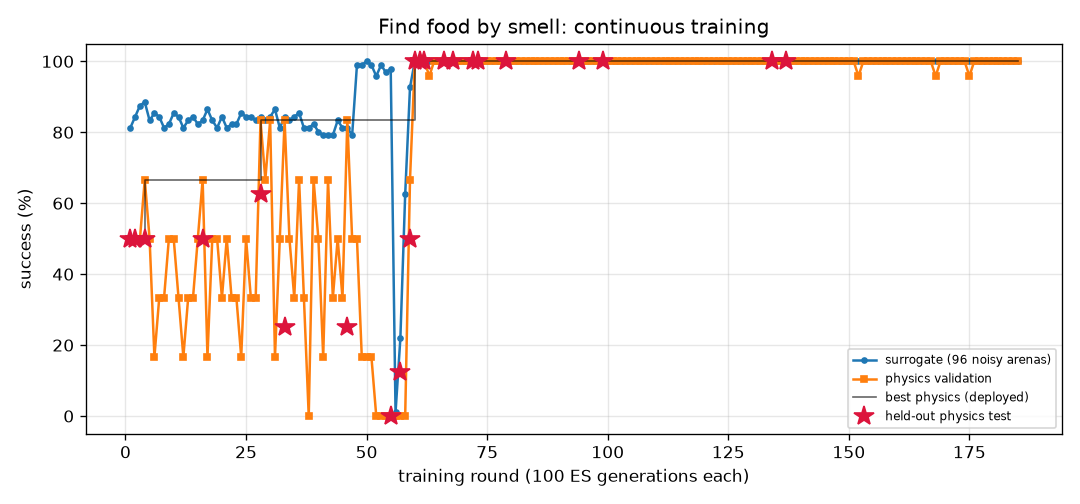
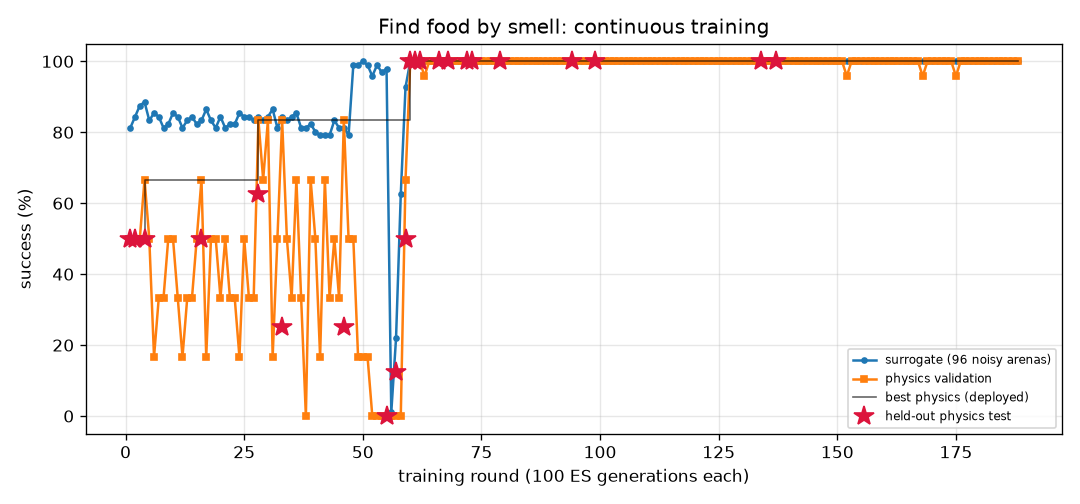
FlyLab: continuous training progress
- walk_forward: optimal, physics val 100% of 24, round 270
- turn: optimal, physics val 100% of 24, round 816
- goto: optimal, physics val 100% of 24, round 223
- odor_seek: optimal, physics val 100% of 24, round 188
- odor_avoid: optimal, physics val 100% of 24, round 746
- light_seek: optimal, physics val 100% of 24, round 417
- light_avoid: optimal, physics val 100% of 24, round 482

diff --git a/projects/09_flylab/training/goto/REPORT.md b/projects/09_flylab/training/goto/REPORT.md
@@ -1,14 +1,14 @@
 # Go to a location (`goto`) — training report
 
-*Auto-generated by `train_brains.py`, last updated 2026-11-02T23:10:33.*
+*Auto-generated by `train_brains.py`, last updated 2026-11-03T03:17:35.*
 
 ![curve](curve.png)
 
 | | |
 |---|---|
-| rounds | 218 |
-| ES generations | 21800 |
-| physics runs | 5182 |
+| rounds | 223 |
+| ES generations | 22300 |
+| physics runs | 5302 |
 | status | **optimal** |
 | best brain | round 176: physics validation **100%** on 24 arenas, surrogate 100% |
 | held-out physics test | **100%** on 32 unseen arenas (95% CI 89%-100%) (errors: [0.2, 0.32, 0.19, 0.24, 0.18, 0.2, 0.19, 0.17, 0.22, 0.23, 0.23, 0.26, 0.2, 0.19, 0.24, 0.23, 0.22, 0.24, 0.2, 0.22, 0.2, 0.2, 0.26, 0.19, 0.22, 0.18, 0.26, 0.22, 0.2, 0.26, 0.23, 0.23]) |
@@ -17,11 +17,6 @@ Physics error per arena: mm from target at the end (< 1.5 and standing still = s
 
 | round | level | gens | sigma | surrogate | physics val | val errors | test | note |
 |---:|---:|---:|---:|---:|---:|---|---:|---|
-| 179 | 3 | 17900 | 0.025 | 99% | 100% | [0.38, 0.42, 0.42, 0.34, 0.33, 0.34, 0.4, 0.41, 0.41, 0.32, 0.28, 0.32, 0.42, 0.35, 0.41, 0.41, 0.4, 0.34, 0.32, 0.4, 0.41, 0.33, 0.4, 0.36] |  |  |
-| 180 | 3 | 18000 | 0.025 | 98% | 100% | [0.39, 0.44, 0.44, 0.3, 0.33, 0.32, 0.38, 0.36, 0.33, 0.28, 0.3, 0.28, 0.36, 0.32, 0.4, 0.36, 0.38, 0.31, 0.3, 0.31, 0.36, 0.26, 0.38, 0.3] |  | restart from best |
-| 181 | 3 | 18100 | 0.024 | 99% | 100% | [0.53, 0.54, 0.43, 0.48, 0.4, 0.48, 0.51, 0.4, 0.55, 0.43, 0.41, 0.46, 0.54, 0.45, 0.48, 0.48, 0.55, 0.47, 0.4, 0.52, 0.47, 0.43, 0.52, 0.5] |  |  |
-| 182 | 3 | 18200 | 0.025 | 100% | 100% | [0.49, 0.46, 0.37, 0.39, 0.36, 0.35, 0.51, 0.37, 0.41, 0.38, 0.35, 0.4, 0.44, 0.34, 0.44, 0.43, 0.51, 0.4, 0.36, 0.42, 0.4, 0.4, 0.46, 0.38] |  |  |
-| 183 | 3 | 18300 | 0.024 | 100% | 100% | [0.39, 0.36, 0.36, 0.3, 0.24, 0.28, 0.37, 0.36, 0.33, 0.26, 0.24, 0.3, 0.35, 0.27, 0.3, 0.34, 0.36, 0.3, 0.25, 0.33, 0.31, 0.25, 0.38, 0.28] |  |  |
 | 184 | 3 | 18400 | 0.024 | 100% | 100% | [0.48, 0.49, 0.51, 0.47, 0.45, 0.44, 0.51, 0.46, 0.5, 0.48, 0.44, 0.47, 0.54, 0.43, 0.47, 0.54, 0.54, 0.47, 0.48, 0.5, 0.49, 0.5, 0.52, 0.47] |  | restart from best |
 | 185 | 3 | 18500 | 0.024 | 99% | 100% | [0.58, 0.52, 0.38, 0.47, 0.38, 0.41, 0.55, 0.53, 0.49, 0.41, 0.39, 0.45, 0.52, 0.38, 0.46, 0.48, 0.59, 0.47, 0.4, 0.53, 0.44, 0.44, 0.57, 0.44] |  |  |
 | 186 | 3 | 18600 | 0.025 | 100% | 100% | [0.56, 0.59, 0.45, 0.46, 0.46, 0.48, 0.53, 0.5, 0.49, 0.44, 0.44, 0.44, 0.54, 0.47, 0.52, 0.5, 0.57, 0.47, 0.43, 0.51, 0.49, 0.43, 0.53, 0.49] |  |  |
@@ -57,3 +52,8 @@ Physics error per arena: mm from target at the end (< 1.5 and standing still = s
 | 216 | 3 | 21600 | 0.025 | 100% | 100% | [0.5, 0.51, 0.49, 0.39, 0.38, 0.4, 0.52, 0.45, 0.45, 0.37, 0.36, 0.38, 0.47, 0.38, 0.42, 0.45, 0.5, 0.4, 0.35, 0.44, 0.44, 0.36, 0.49, 0.38] |  | restart from best |
 | 217 | 3 | 21700 | 0.024 | 99% | 100% | [0.52, 0.53, 0.55, 0.55, 0.41, 0.49, 0.55, 0.53, 0.54, 0.44, 0.44, 0.52, 0.53, 0.42, 0.42, 0.47, 0.56, 0.49, 0.42, 0.53, 0.43, 0.42, 0.55, 0.51] |  |  |
 | 218 | 3 | 21800 | 0.025 | 99% | 96% | [0.44, 0.38, 0.36, 0.27, 0.24, 0.29, 0.39, 0.3, 0.34, 0.24, 0.25, 0.27, 0.35, 0.6, 0.3, 0.26, 0.35, 0.35, 0.26, 0.34, 0.27, 0.12, 0.35, 0.27] |  |  |
+| 219 | 3 | 21900 | 0.025 | 98% | 100% | [0.64, 0.64, 0.7, 0.59, 0.57, 0.59, 0.66, 0.68, 0.67, 0.56, 0.57, 0.57, 0.7, 0.58, 0.59, 0.67, 0.7, 0.64, 0.56, 0.65, 0.67, 0.56, 0.69, 0.59] |  |  |
+| 220 | 3 | 22000 | 0.025 | 98% | 100% | [0.46, 0.37, 0.31, 0.24, 0.25, 0.28, 0.47, 0.24, 0.28, 0.28, 0.23, 0.25, 0.35, 0.23, 0.36, 0.32, 0.38, 0.39, 0.29, 0.32, 0.31, 0.28, 0.32, 0.29] |  | restart from best |
+| 221 | 3 | 22100 | 0.024 | 99% | 100% | [0.58, 0.5, 0.4, 0.48, 0.39, 0.44, 0.56, 0.47, 0.5, 0.39, 0.4, 0.47, 0.55, 0.37, 0.44, 0.43, 0.56, 0.46, 0.39, 0.55, 0.4, 0.45, 0.55, 0.48] |  |  |
+| 222 | 3 | 22200 | 0.025 | 100% | 100% | [0.59, 0.59, 0.55, 0.56, 0.6, 0.56, 0.59, 0.57, 0.58, 0.56, 0.58, 0.55, 0.6, 0.57, 0.6, 0.59, 0.61, 0.56, 0.57, 0.58, 0.61, 0.55, 0.6, 0.56] |  |  |
+| 223 | 3 | 22300 | 0.024 | 100% | 100% | [0.4, 0.42, 0.39, 0.38, 0.33, 0.35, 0.42, 0.39, 0.43, 0.33, 0.31, 0.36, 0.43, 0.34, 0.36, 0.4, 0.41, 0.35, 0.33, 0.43, 0.4, 0.34, 0.4, 0.38] |  |  |

diff --git a/projects/09_flylab/training/odor_seek/REPORT.md b/projects/09_flylab/training/odor_seek/REPORT.md
@@ -1,14 +1,14 @@
 # Find food by smell (`odor_seek`) — training report
 
-*Auto-generated by `train_brains.py`, last updated 2026-11-02T23:09:04.*
+*Auto-generated by `train_brains.py`, last updated 2026-11-03T03:12:55.*
 
 ![curve](curve.png)
 
 | | |
 |---|---|
-| rounds | 185 |
-| ES generations | 18500 |
-| physics runs | 3870 |
+| rounds | 188 |
+| ES generations | 18800 |
+| physics runs | 3942 |
 | status | **optimal** |
 | best brain | round 137: physics validation **100%** on 24 arenas, surrogate 100% |
 | held-out physics test | **100%** on 32 unseen arenas (95% CI 89%-100%) (errors: [0.14, 0.05, 0.19, 0.15, 0.13, 0.08, 0.06, 0.06, 0.04, 0.06, 0.02, 0.11, 0.05, 0.1, 0.06, 0.01, 0.11, 0.12, 0.14, 0.08, 0.12, 0.06, 0.06, 0.09, 0.12, 0.05, 0.07, 0.07, 0.12, 0.11, 0.06, 0.11]) |
@@ -17,9 +17,6 @@ Physics error per arena: mm from target at the end (< 1.5 and standing still = s
 
 | round | level | gens | sigma | surrogate | physics val | val errors | test | note |
 |---:|---:|---:|---:|---:|---:|---|---:|---|
-| 146 | 3 | 14600 | 0.024 | 100% | 100% | [0.12, 0.06, 0.21, 0.09, 0.08, 0.17, 0.12, 0.17, 0.22, 0.08, 0.09, 0.06, 0.1, 0.15, 0.16, 0.15, 0.14, 0.07, 0.09, 0.22, 0.1, 0.11, 0.15, 0.08] |  |  |
-| 147 | 3 | 14700 | 0.024 | 100% | 100% | [0.07, 0.16, 0.05, 0.07, 0.08, 0.22, 0.08, 0.16, 0.13, 0.11, 0.05, 0.19, 0.14, 0.05, 0.06, 0.14, 0.1, 0.07, 0.15, 0.15, 0.03, 0.19, 0.16, 0.09] |  |  |
-| 148 | 3 | 14800 | 0.024 | 100% | 100% | [0.13, 0.25, 0.17, 0.21, 0.22, 0.12, 0.2, 0.24, 0.22, 0.14, 0.24, 0.17, 0.21, 0.14, 0.18, 0.14, 0.15, 0.19, 0.25, 0.14, 0.3, 0.16, 0.17, 0.16] |  |  |
 | 149 | 3 | 14900 | 0.024 | 100% | 100% | [0.18, 0.16, 0.18, 0.16, 0.17, 0.23, 0.22, 0.17, 0.32, 0.18, 0.24, 0.17, 0.17, 0.19, 0.23, 0.19, 0.22, 0.2, 0.2, 0.16, 0.14, 0.2, 0.25, 0.25] |  | restart from best |
 | 150 | 3 | 15000 | 0.024 | 100% | 100% | [0.21, 0.17, 0.12, 0.12, 0.12, 0.04, 0.14, 0.06, 0.09, 0.12, 0.14, 0.13, 0.06, 0.05, 0.11, 0.06, 0.09, 0.18, 0.1, 0.09, 0.12, 0.04, 0.09, 0.12] |  |  |
 | 151 | 3 | 15100 | 0.024 | 100% | 100% | [0.15, 0.21, 0.2, 0.2, 0.14, 0.22, 0.23, 0.17, 0.26, 0.21, 0.14, 0.18, 0.25, 0.12, 0.19, 0.19, 0.16, 0.25, 0.23, 0.16, 0.21, 0.09, 0.21, 0.15] |  |  |
@@ -57,3 +54,6 @@ Physics error per arena: mm from target at the end (< 1.5 and standing still = s
 | 183 | 3 | 18300 | 0.024 | 100% | 100% | [0.28, 0.13, 0.22, 0.13, 0.15, 0.12, 0.13, 0.2, 0.25, 0.19, 0.14, 0.22, 0.13, 0.15, 0.19, 0.19, 0.17, 0.18, 0.15, 0.15, 0.17, 0.11, 0.13, 0.13] |  |  |
 | 184 | 3 | 18400 | 0.024 | 100% | 100% | [0.17, 0.15, 0.25, 0.12, 0.17, 0.2, 0.18, 0.19, 0.18, 0.16, 0.2, 0.13, 0.19, 0.19, 0.17, 0.28, 0.21, 0.2, 0.22, 0.15, 0.17, 0.15, 0.14, 0.19] |  |  |
 | 185 | 3 | 18500 | 0.024 | 100% | 100% | [0.18, 0.18, 0.15, 0.21, 0.22, 0.15, 0.22, 0.13, 0.21, 0.25, 0.15, 0.16, 0.24, 0.18, 0.21, 0.18, 0.23, 0.23, 0.13, 0.16, 0.19, 0.21, 0.15, 0.2] |  | restart from best |
+| 186 | 3 | 18600 | 0.024 | 100% | 100% | [0.2, 0.09, 0.12, 0.06, 0.11, 0.1, 0.13, 0.12, 0.15, 0.08, 0.12, 0.14, 0.15, 0.1, 0.17, 0.14, 0.12, 0.15, 0.22, 0.15, 0.09, 0.15, 0.21, 0.14] |  |  |
+| 187 | 3 | 18700 | 0.024 | 100% | 100% | [0.12, 0.18, 0.18, 0.15, 0.17, 0.09, 0.18, 0.2, 0.19, 0.18, 0.28, 0.15, 0.14, 0.18, 0.2, 0.15, 0.16, 0.17, 0.12, 0.19, 0.19, 0.17, 0.19, 0.2] |  |  |
+| 188 | 3 | 18800 | 0.024 | 100% | 100% | [0.12, 0.17, 0.13, 0.12, 0.17, 0.16, 0.11, 0.13, 0.12, 0.14, 0.17, 0.16, 0.19, 0.17, 0.14, 0.12, 0.1, 0.17, 0.12, 0.06, 0.16, 0.16, 0.2, 0.18] |  |  |

diff --git a/projects/09_flylab/training/walk_forward/REPORT.md b/projects/09_flylab/training/walk_forward/REPORT.md
@@ -1,14 +1,14 @@
 # Walk forward (`walk_forward`) — training report
 
-*Auto-generated by `train_brains.py`, last updated 2026-11-03T02:11:46.*
+*Auto-generated by `train_brains.py`, last updated 2026-11-03T02:22:43.*
 
 ![curve](curve.png)
 
 | | |
 |---|---|
-| rounds | 269 |
-| ES generations | 26900 |
-| physics runs | 6470 |
+| rounds | 270 |
+| ES generations | 27000 |
+| physics runs | 6494 |
 | status | **optimal** |
 | best brain | round 116: physics validation **100%** on 24 arenas, surrogate 100% |
 | held-out physics test | **100%** on 32 unseen arenas (95% CI 89%-100%) (errors: [0.13, 0.16, 0.19, 0.16, 0.15, 0.2, 0.17, 0.18, 0.17, 0.19, 0.2, 0.14, 0.17, 0.19, 0.2, 0.2, 0.13, 0.19, 0.16, 0.2, 0.2, 0.16, 0.17, 0.2, 0.13, 0.15, 0.18, 0.14, 0.16, 0.15, 0.19, 0.12]) |
@@ -17,7 +17,6 @@ Physics error per arena: mm from target at the end (< 1.5 and standing still = s
 
 | round | level | gens | sigma | surrogate | physics val | val errors | test | note |
 |---:|---:|---:|---:|---:|---:|---|---:|---|
-| 230 | 3 | 23000 | 0.024 | 100% | 100% | [0.22, 0.25, 0.04, 0.22, 0.25, 0.01, 0.25, 0.16, 0.26, 0.24, 0.05, 0.22, 0.15, 0.12, 0.24, 0.22, 0.2, 0.25, 0.16, 0.24, 0.18, 0.23, 0.21, 0.15] |  |  |
 | 231 | 3 | 23100 | 0.024 | 100% | 100% | [0.22, 0.26, 0.18, 0.22, 0.27, 0.17, 0.26, 0.18, 0.27, 0.25, 0.17, 0.24, 0.18, 0.17, 0.24, 0.25, 0.21, 0.26, 0.19, 0.25, 0.2, 0.25, 0.23, 0.18] |  |  |
 | 232 | 3 | 23200 | 0.024 | 100% | 100% | [0.38, 0.45, 0.34, 0.38, 0.44, 0.35, 0.44, 0.35, 0.45, 0.45, 0.35, 0.43, 0.35, 0.35, 0.41, 0.44, 0.37, 0.44, 0.35, 0.41, 0.35, 0.45, 0.43, 0.35] |  | restart from best |
 | 233 | 3 | 23300 | 0.024 | 99% | 100% | [0.29, 0.3, 0.21, 0.29, 0.3, 0.2, 0.3, 0.24, 0.3, 0.28, 0.2, 0.26, 0.24, 0.21, 0.3, 0.27, 0.28, 0.3, 0.25, 0.3, 0.25, 0.28, 0.25, 0.24] |  |  |
@@ -57,3 +56,4 @@ Physics error per arena: mm from target at the end (< 1.5 and standing still = s
 | 267 | 3 | 26700 | 0.024 | 99% | 100% | [0.25, 0.24, 0.2, 0.25, 0.24, 0.18, 0.24, 0.23, 0.24, 0.23, 0.17, 0.14, 0.23, 0.18, 0.26, 0.2, 0.25, 0.25, 0.24, 0.26, 0.25, 0.22, 0.15, 0.22] |  |  |
 | 268 | 3 | 26800 | 0.025 | 100% | 100% | [0.24, 0.28, 0.16, 0.23, 0.27, 0.16, 0.27, 0.18, 0.27, 0.26, 0.15, 0.24, 0.18, 0.15, 0.26, 0.25, 0.22, 0.27, 0.19, 0.26, 0.2, 0.26, 0.24, 0.17] |  | restart from best |
 | 269 | 3 | 26900 | 0.024 | 100% | 100% | [0.11, 0.12, 0.12, 0.1, 0.15, 0.06, 0.12, 0.09, 0.15, 0.11, 0.11, 0.13, 0.08, 0.11, 0.08, 0.09, 0.12, 0.14, 0.11, 0.11, 0.12, 0.1, 0.14, 0.07] |  |  |
+| 270 | 3 | 27000 | 0.024 | 100% | 100% | [0.12, 0.11, 0.09, 0.11, 0.11, 0.09, 0.12, 0.12, 0.12, 0.09, 0.09, 0.13, 0.1, 0.08, 0.09, 0.06, 0.1, 0.09, 0.1, 0.08, 0.11, 0.09, 0.06, 0.07] |  |  |

diff --git a/projects/09_flylab/training/TRAINING.md b/projects/09_flylab/training/TRAINING.md
@@ -1,15 +1,15 @@
 # FlyLab brains — continuous training log
 
-*Auto-generated by `train_brains.py`, last updated 2026-11-03T02:11:46.*
+*Auto-generated by `train_brains.py`, last updated 2026-11-03T03:17:35.*
 
 Every skill has its own brain and its own training process: surrogate ES rounds, physics validation in MuJoCo, keep-the-best selection, and a held-out physics test that is never used for selection. See each skill's report for its full round-by-round history. Mastery is progressive: passing a level (100% physics validation, >=95% surrogate) doubles the validation and test arena sets; a brain is **optimal** once it holds up at level 3 (>=95% of 24 validation arenas) AND scores >=90% on the 32 held-out test arenas. Test columns show 95% Wilson confidence intervals.
 
 | skill | rounds | ES generations | physics runs | surrogate | physics val | **physics test** | status |
 |---|---:|---:|---:|---:|---:|---:|---|
-| [Walk forward](walk_forward/REPORT.md) | 269 | 26900 | 6470 | 100% | 100% of 24 | 100% of 32 (CI 89-100%) | **optimal** |
+| [Walk forward](walk_forward/REPORT.md) | 270 | 27000 | 6494 | 100% | 100% of 24 | 100% of 32 (CI 89-100%) | **optimal** |
 | [Turn in place](turn/REPORT.md) | 816 | 81600 | 19830 | 100% | 100% of 24 | 97% of 32 (CI 84-99%) | **optimal** |
-| [Go to a location](goto/REPORT.md) | 218 | 21800 | 5182 | 100% | 100% of 24 | 100% of 32 (CI 89-100%) | **optimal** |
-| [Find food by smell](odor_seek/REPORT.md) | 185 | 18500 | 3870 | 100% | 100% of 24 | 100% of 32 (CI 89-100%) | **optimal** |
+| [Go to a location](goto/REPORT.md) | 223 | 22300 | 5302 | 100% | 100% of 24 | 100% of 32 (CI 89-100%) | **optimal** |
+| [Find food by smell](odor_seek/REPORT.md) | 188 | 18800 | 3942 | 100% | 100% of 24 | 100% of 32 (CI 89-100%) | **optimal** |
 | [Escape a bad smell](odor_avoid/REPORT.md) | 746 | 74600 | 15210 | 97% | 100% of 24 | 97% of 32 (CI 84-99%) | **optimal** |
 | [Walk toward light](light_seek/REPORT.md) | 417 | 41700 | 6888 | 100% | 100% of 24 | 100% of 32 (CI 89-100%) | **optimal** |
 | [Hide from light](light_avoid/REPORT.md) | 482 | 48200 | 11840 | 100% | 100% of 24 | 100% of 32 (CI 89-100%) | **optimal** |
